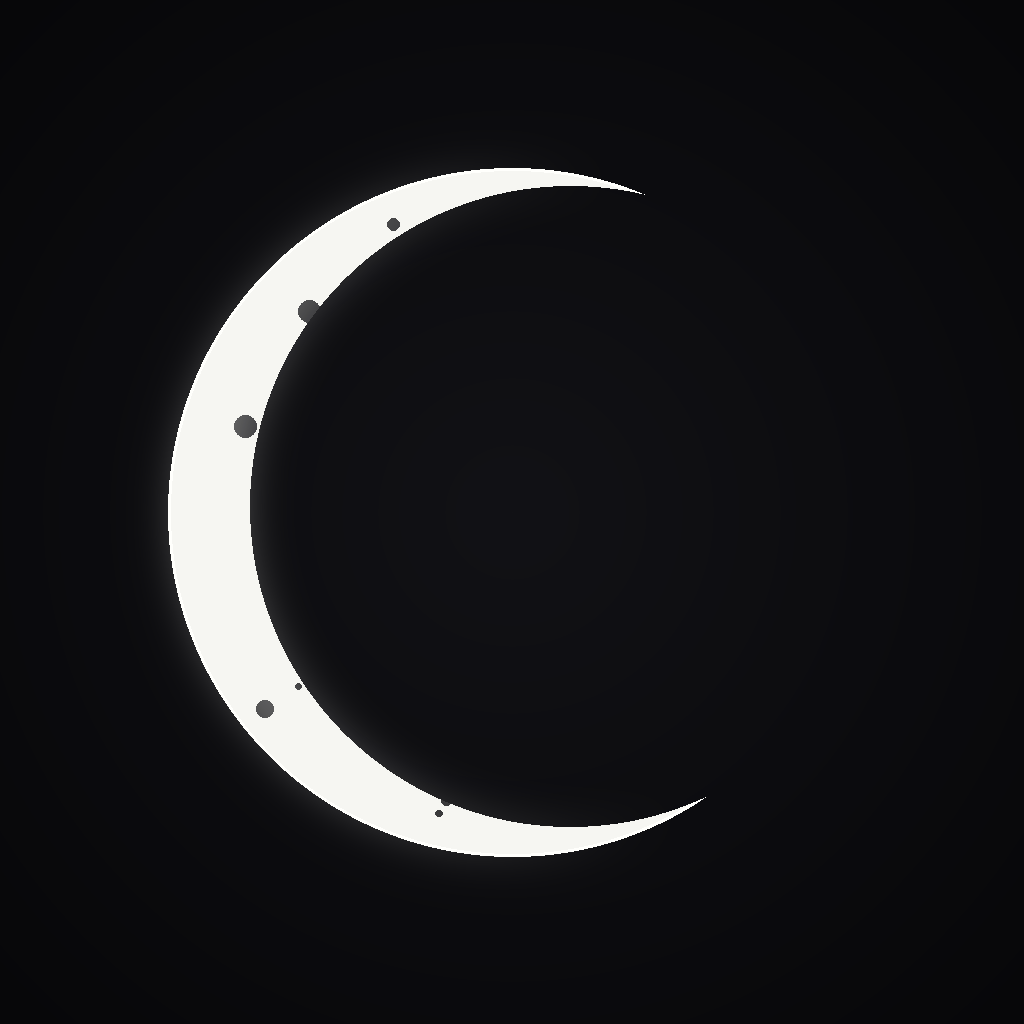
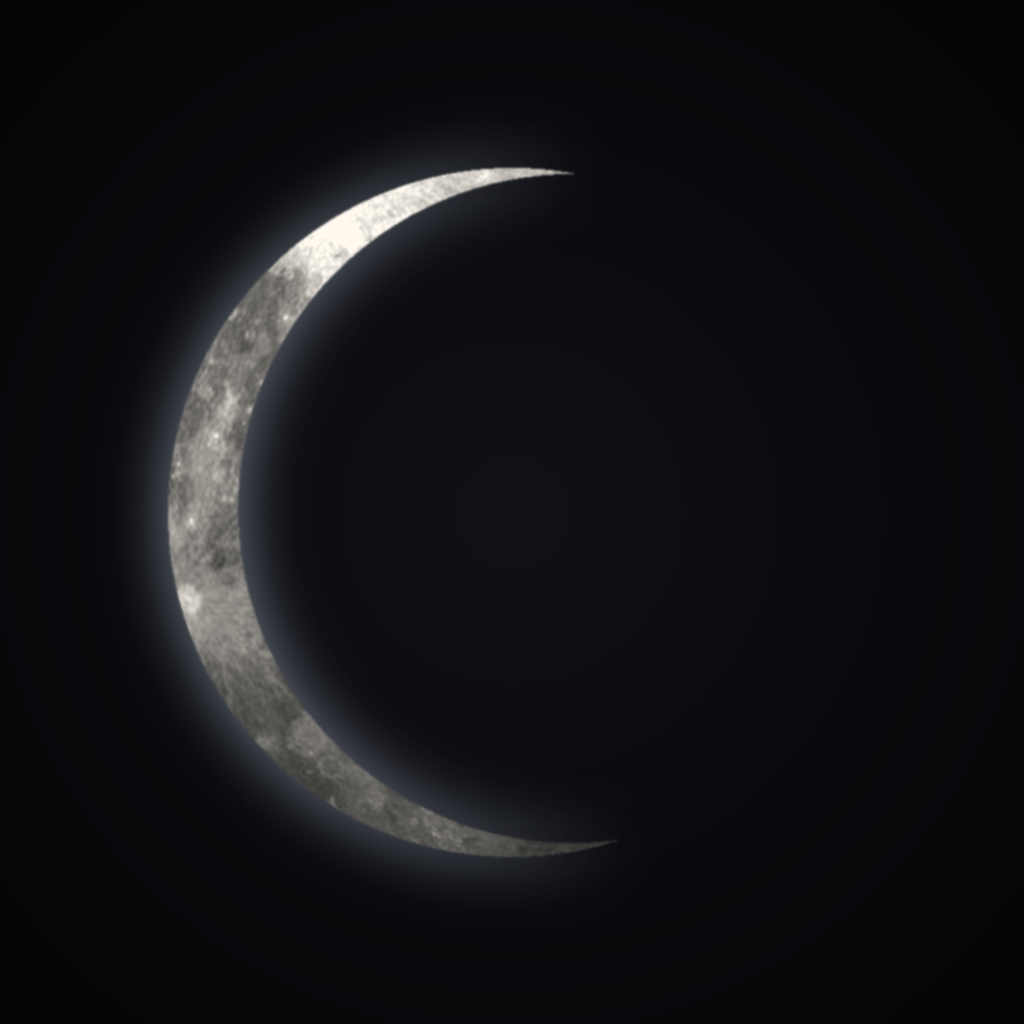
feat: luna realista con textura lunar para el perfil

Changed region(s): [[0.125, 0.1562, 0.6875, 0.8438]]

diff --git a/assets/README.md b/assets/README.md
@@ -1,0 +1,8 @@
+# Assets del perfil
+
+- `banner-moon-real.png`: banner del perfil.
+- `moon-avatar.png`: avatar (luna de albedo NASA LROC).
+- `moon-avatar-red.png`: variante roja.
+- `moon-logo.png` / `moon-logo-red.png`: versiones transparentes.
+
+Textura lunar: mapa de albedo **NASA LROC / Scientific Visualization Studio**, dominio público.

diff --git a/README.md b/README.md
@@ -1,6 +1,6 @@
 <div align="center">
 
-<img src="assets/banner-moon.png" alt="Stefano Reyes — Product engineer & full-stack" width="100%" />
+<img src="assets/banner-moon-real.png" alt="Stefano Reyes — Product engineer & full-stack" width="100%" />
 
 <br />
 
